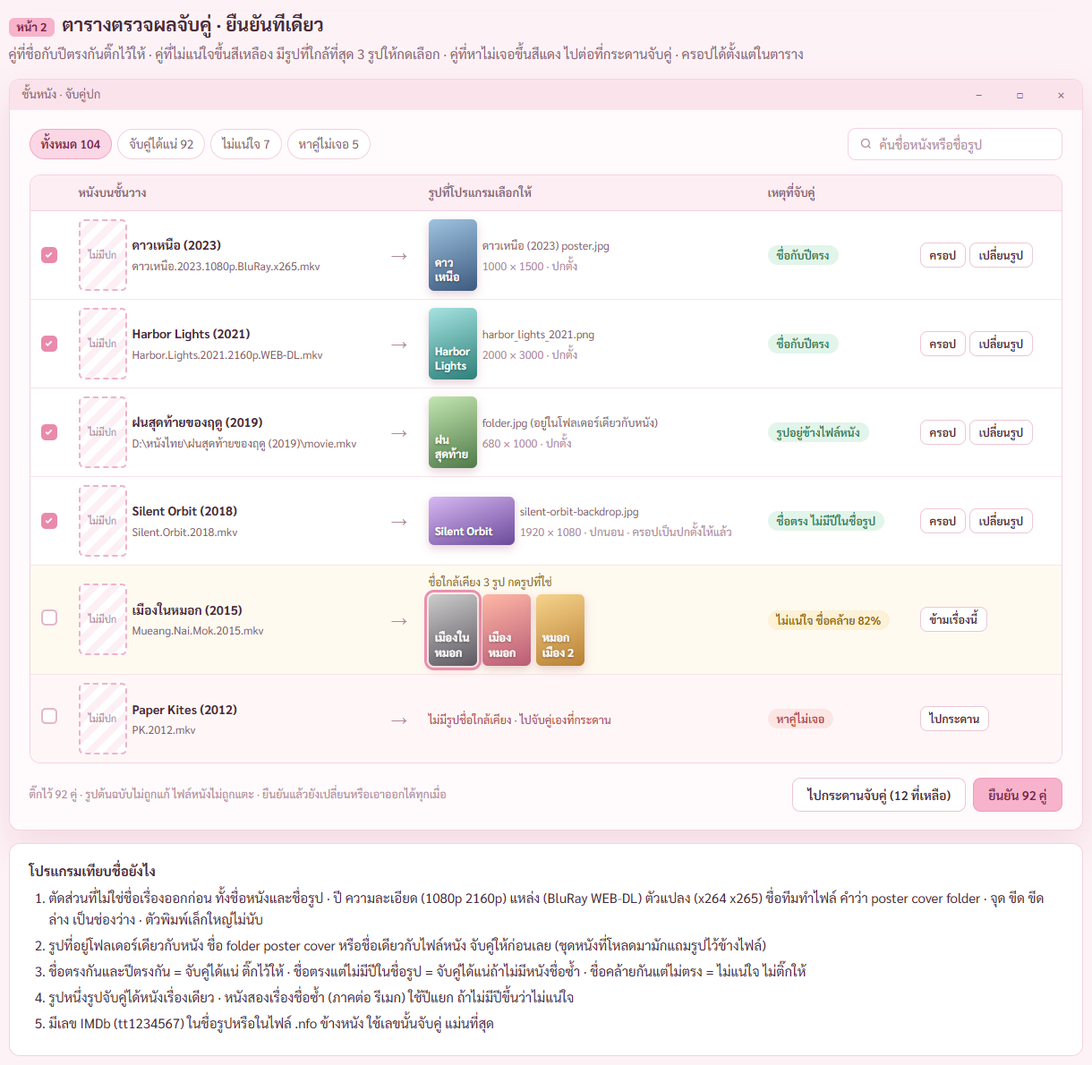
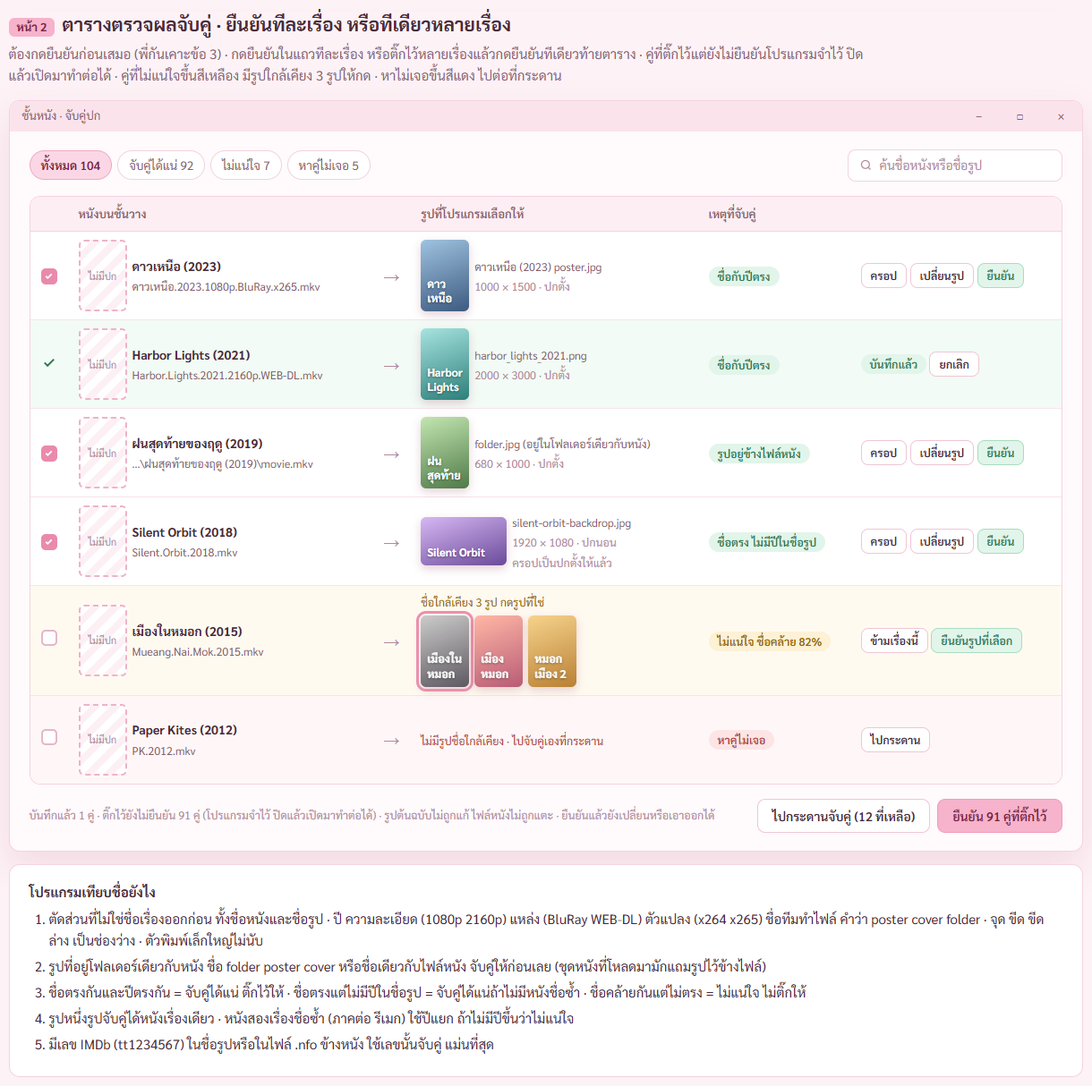
มอคอัปจับคู่รูปปก แก้ตามที่พี่กันเคาะครบ 5 ข้อ: ค่าตั้งต้นคัดลอกรูปที่ครอปแล้วไปไว้ข้างไฟล์หนังชื่อเหมือนหนัง -poster -landscape · ยืนยันทีละเรื่องหรือทีเดียว พร้อมหน้าต่างกันเผลอปิด · ชั้นวางกรองรวมกับจับคู่ สลับปกตั้งปกนอน
เป้าหมาย
--------
- พี่กันเคาะข้อ 1 "ข้อ 1 ค่าตั้งต้นคือ ระบบจะ copy ไฟล์ภาพและเปลี่ยนชื่อให้เหมือนกับชื่อหนังเลย แต่ตปุ่มตั้งค่าสามารถเอาออกได้ แค่จับคู่ ชื่อเดิม ที่เดิม แค่โปรแกรมจับมาแสดงเฉยๆ" แล้วถามว่าเก็บรูปในโปรแกรมคืออะไร · แคลร์อธิบาย แล้วถามว่าสำเนาวางข้างไฟล์หนังใช่ไหม
- พี่กันตอบครบ "เก็บในโปรแกรม เอา แต่ต้องไปเลือกในตั้งค่า" · "รูผที่ ครอบแล้วตอน copy มาตัวต้นฉบับยังอยู่ เป็นค่าพื้นฐาน" · "นามสกุลเป็นรูป ใช่ และใส่ด้วย แนวตั้งแนวนอน เพราะอย่างที่บอก 1 วิดีโอ เปลี่ยนได้หลายรูป" · "2 แยกหน้า … และสามารถกดกรองได้ว่าเรื่องไหนมาจาก merge หรือจับคู่" · "3 กดยืนวันก่อนเท่านั้น แต่เราอยากได้แบบ กดทีละเรื่อง หรือเราเลือกจับคู่ไว้จนครบ 50 เรื่องแล้วกดยืนยันทีเดียวได้ แค่ต้องห้ามด้วยถ้าเผลอปิดโปรแกรม" · "4 ไม่เอาปรับสี" · "5 ทำพร้อมกัน"
- รอบนี้ไม่แตะ โค้ดของโปรแกรม (ยังไม่ลงมือ) · ไม่ขยับรุ่น ไม่ push

ผลลัพธ์
-------
| เรื่อง | ก่อน | หลัง |
|---|---|---|
| ข้อที่รอเคาะ | 5 ข้อ | เคาะครบ จดโรดแมปพร้อมคำพี่กัน |
| หน้ามอคอัป | 7 หน้า | 8 หน้า (เพิ่มหน้าต่างกันเผลอปิด) แก้ 5 หน้าตามคำเคาะ |

ที่ทำ
-----

[1] มอคอัปแก้ตามคำเคาะ — docs/mockups/poster-link.html (+59 −34)
           หัวมอคอัปบอกว่าพี่กันเคาะครบแล้ว
           หน้า 2 ตาราง ปุ่มยืนยันในแถวทุกคู่ · แถว Harbor Lights เป็นแถวที่บันทึกแล้ว สีเขียว เครื่องหมายถูก ป้ายบันทึกแล้วกับปุ่มยกเลิก · แถวไม่แน่ใจมีปุ่มยืนยันรูปที่เลือก · ท้ายตาราง บันทึกแล้ว 1 คู่ ติ๊กไว้ยังไม่ยืนยัน 91 คู่ (โปรแกรมจำไว้) ปุ่มยืนยัน 91 คู่ที่ติ๊กไว้
[…]

diff --git a/docs/mockups/poster-link.html b/docs/mockups/poster-link.html
@@ -85,6 +85,7 @@ td{padding:9px 12px;border-bottom:1px solid #f8e3eb;vertical-align:middle}
 tbody tr:last-child td{border-bottom:0}
 td.acts{white-space:nowrap}
 tr.unsure td{background:#fffaf0}
+tr.saved td{background:#f2fbf5}
 tr.none td{background:#fff7f7}
 .mv b{display:block;font-size:14px}
 .fn{font-size:12.5px;color:var(--txt2);word-break:break-all}
@@ -164,6 +165,7 @@ tr.none td{background:#fff7f7}
   <h1>จับคู่รูปปกกับไฟล์หนัง โดยไม่รวมเข้าไฟล์</h1>
   <p class="lead">มอคอัป 8 พ.ย. 2569 · พี่กันสั่ง <i>"แม้โปสเตอร์และวิดีโอจะอยู่คนละที่ แต่โปรแกรมจะจับคู่กันได้ โดยไม่ต้อง merge · ภาพที่เอามาจับคู่ดัดแปลง ครอป บิด ได้หมดเหมือนที่จะรวมกับรูป · อยากได้วิธีกดที่ง่าย สมมุติมีหนัง 100 เรื่องกับรูป 100 รูป"</i></p>
   <p class="lead">ไฟล์หนังไม่ถูกแตะเลย ไม่ต้องรอครอบ ไม่ใช้ที่ว่างเพิ่ม ใช้ได้กับไฟล์ทุกชนิด รวมถึง MP4 AVI ที่ใส่ปกในไฟล์ยาก · วันไหนอยากรวมเข้าไฟล์จริง กดรวมจากรูปที่จับคู่ไว้ได้เลย</p>
+  <p class="lead"><b>พี่กันเคาะครบ 5 ข้อแล้ว 8 พ.ย. 2569</b> · มอคอัปแก้ตามคำเคาะแล้ว (หน้า 2 ตาราง · หน้ากันเผลอปิด · หน้า 5 ชั้นวาง · หน้าตั้งค่า · หน้าสรุป)</p>
 
   <!-- ===================== ข้อเสนอ 3 ทาง ===================== -->
   <section class="sec" id="ways">
@@ -172,7 +174,7 @@ tr.none td{background:#fff7f7}
     <div class="ways">
       <div class="way"><h4><span class="step">1</span>ลากรูปทั้งโฟลเดอร์มา โปรแกรมจับคู่ให้</h4>
         <div class="when">หนังหลายเรื่อง รูปหลายรูปพร้อมกัน</div>
-        <div class="small" style="font-size:13.5px;color:var(--txt2)">ลากโฟลเดอร์รูปมาวาง โปรแกรมเทียบชื่อรูปกับชื่อหนังบนชั้นวาง (ตัดปี ความละเอียด ชื่อทีมทำไฟล์ ออกก่อนเทียบ) แล้วขึ้นตารางให้ตรวจ · คู่ที่ชื่อกับปีตรงกันติ๊กไว้ให้ กดยืนยันทีเดียว</div></div>
+        <div class="small" style="font-size:13.5px;color:var(--txt2)">ลากโฟลเดอร์รูปมาวาง โปรแกรมเทียบชื่อรูปกับชื่อหนังบนชั้นวาง (ตัดปี ความละเอียด ชื่อทีมทำไฟล์ ออกก่อนเทียบ) แล้วขึ้นตารางให้ตรวจ · คู่ที่ชื่อกับปีตรงกันติ๊กไว้ให้ ยืนยันทีละเรื่องหรือทีเดียวหลายเรื่อง</div></div>
       <div class="way"><h4><span class="step">2</span>กระดานจับคู่ ลากรูปไปวางบนหนัง</h4>
         <div class="when">คู่ที่โปรแกรมไม่แน่ใจหรือหาไม่เจอ</div>
         <div class="small" style="font-size:13.5px;color:var(--txt2)">รูปที่เหลืออยู่ซ้าย หนังที่ยังไม่มีปกอยู่ขวา · ลากรูปไปวางบนหนัง หรือกดรูปแล้วกดหนัง สองคลิกจบ · ค้นชื่อหนังได้ จับคู่แล้วแถวหายไปจากกระดาน เหลือแต่ที่ยังไม่เสร็จ</div></div>
@@ -219,47 +221,47 @@ tr.none td{background:#fff7f7}
 
   <!-- ===================== หน้า 2 ตารางตรวจผล ===================== -->
   <section class="sec" id="s2">
-    <h2><span class="tag">หน้า 2</span>ตารางตรวจผลจับคู่ · ยืนยันทีเดียว</h2>
-    <p class="note">คู่ที่ชื่อกับปีตรงกันติ๊กไว้ให้ · คู่ที่ไม่แน่ใจขึ้นสีเหลือง มีรูปที่ใกล้ที่สุด 3 รูปให้กดเลือก · คู่ที่หาไม่เจอขึ้นสีแดง ไปต่อที่กระดานจับคู่ · ครอปได้ตั้งแต่ในตาราง</p>
+    <h2><span class="tag">หน้า 2</span>ตารางตรวจผลจับคู่ · ยืนยันทีละเรื่อง หรือทีเดียวหลายเรื่อง</h2>
+    <p class="note">ต้องกดยืนยันก่อนเสมอ (พี่กันเคาะข้อ 3) · กดยืนยันในแถวทีละเรื่อง หรือติ๊กไว้หลายเรื่องแล้วกดยืนยันทีเดียวท้ายตาราง · คู่ที่ติ๊กไว้แต่ยังไม่ยืนยันโปรแกรมจำไว้ ปิดแล้วเปิดมาทำต่อได้ · คู่ที่ไม่แน่ใจขึ้นสีเหลือง มีรูปใกล้เคียง 3 รูปให้กด · หาไม่เจอขึ้นสีแดง ไปต่อที่กระดาน</p>
     <div class="win">
       <div class="titlebar"><span>ชั้นหนัง · จับคู่ปก</span><span class="ctl"><span>–</span><span>□</span><span>×</span></span></div>
       <div class="wrapin">
         <div class="foot"><div class="tabs"><span class="on">ทั้งหมด 104</span><span>จับคู่ได้แน่ 92</span><span>ไม่แน่ใจ 7</span><span>หาคู่ไม่เจอ 5</span></div>
           <div class="search" style="width:240px"><svg width="15" height="15" viewBox="0 0 24 24" fill="none" stroke="currentColor" stroke-width="2"><circle cx="11" cy="11" r="7"/><path d="M20 20l-3.5-3.5"/></svg>ค้นชื่อหนังหรือชื่อรูป</div></div>
         <div class="tblwrap"><table>
-          <thead><tr><th style="width:36px"></th><th>หนังบนชั้นวาง</th><th style="width:30px"></th><th>รูปที่โปรแกรมเลือกให้</th><th style="width:170px">เหตุที่จับคู่</th><th style="width:170px"></th></tr></thead>
+          <thead><tr><th style="width:36px"></th><th>หนังบนชั้นวาง</th><th style="width:30px"></th><th>รูปที่โปรแกรมเลือกให้</th><th style="width:170px">เหตุที่จับคู่</th><th style="width:236px"></th></tr></thead>
           <tbody>
             <tr><td><span class="cbx on"><svg width="11" height="11" viewBox="0 0 24 24" fill="none" stroke="#fff" stroke-width="4"><path d="M5 12.5l4.5 4.5L19 7.5"/></svg></span></td>
               <td><div class="pick"><span class="pp tall none">ไม่มีปก</span><div class="mv"><b>ดาวเหนือ (2023)</b><span class="fn">ดาวเหนือ.2023.1080p.BluRay.x265.mkv</span></div></div></td>
               <td class="arrow">→</td>
               <td><div class="pick"><span class="pp tall g2"><span class="t">ดาวเหนือ</span></span><div><span class="fn">ดาวเหนือ (2023) poster.jpg</span><br><span class="small">1000 × 1500 · ปกตั้ง</span></div></div></td>
               <td><span class="pill p-ok">ชื่อกับปีตรง</span></td>
-              <td class="acts"><span class="btn btn-ghost btn-xs">ครอป</span> <span class="btn btn-ghost btn-xs">เปลี่ยนรูป</span></td></tr>
-            <tr><td><span class="cbx on"><svg width="11" height="11" viewBox="0 0 24 24" fill="none" stroke="#fff" stroke-width="4"><path d="M5 12.5l4.5 4.5L19 7.5"/></svg></span></td>
+              <td class="acts"><span class="btn btn-ghost btn-xs">ครอป</span> <span class="btn btn-ghost btn-xs">เปลี่ยนรูป</span> <span class="btn btn-ok btn-xs">ยืนยัน</span></td></tr>
+            <tr class="saved"><td><svg width="18" height="18" viewBox="0 0 24 24" fill="none" stroke="#2f7a52" stroke-width="2.6"><path d="M5 12.5l4.5 4.5L19 7.5"/></svg></td>
               <td><div class="pick"><span class="pp tall none">ไม่มีปก</span><div class="mv"><b>Harbor Lights (2021)</b><span class="fn">Harbor.Lights.2021.2160p.WEB-DL.mkv</span></div></div></td>
               <td class="arrow">→</td>
               <td><div class="pick"><span class="pp tall g6"><span class="t">Harbor Lights</span></span><div><span class="fn">harbor_lights_2021.png</span><br><span class="small">2000 × 3000 · ปกตั้ง</span></div></div></td>
               <td><span class="pill p-ok">ชื่อกับปีตรง</span></td>
-              <td class="acts"><span class="btn btn-ghost btn-xs">ครอป</span> <span class="btn btn-ghost btn-xs">เปลี่ยนรูป</span></td></tr>
+              <td class="acts"><span class="pill p-ok">บันทึกแล้ว</span> <span class="btn btn-ghost btn-xs">ยกเลิก</span></td></tr>
             <tr><td><span class="cbx on"><svg width="11" height="11" viewBox="0 0 24 24" fill="none" stroke="#fff" stroke-width="4"><path d="M5 12.5l4.5 4.5L19 7.5"/></svg></span></td>
-              <td><div class="pick"><span class="pp tall none">ไม่มีปก</span><div class="mv"><b>ฝนสุดท้ายของฤดู (2019)</b><span class="fn">D:\หนังไทย\ฝนสุดท้ายของฤดู (2019)\movie.mkv</span></div></div></td>
+              <td><div class="pick"><span class="pp tall none">ไม่มีปก</span><div class="mv"><b>ฝนสุดท้ายของฤดู (2019)</b><span class="fn">…\ฝนสุดท้ายของฤดู (2019)\movie.mkv</span></div></div></td>
               <td class="arrow">→</td>
               <td><div class="pick"><span class="pp tall g3"><span class="t">ฝนสุดท้าย</span></span><div><span class="fn">folder.jpg (อยู่ในโฟลเดอร์เดียวกับหนัง)</span><br><span class="small">680 × 1000 · ปกตั้ง</span></div></div></td>
               <td><span class="pill p-ok">รูปอยู่ข้างไฟล์หนัง</span></td>
-              <td class="acts"><span class="btn btn-ghost btn-xs">ครอป</span> <span class="btn btn-ghost btn-xs">เปลี่ยนรูป</span></td></tr>
+              <td class="acts"><span class="btn btn-ghost btn-xs">ครอป</span> <span class="btn btn-ghost btn-xs">เปลี่ยนรูป</span> <span class="btn btn-ok btn-xs">ยืนยัน</span></td></tr>
             <tr><td><span class="cbx on"><svg width="11" height="11" viewBox="0 0 24 24" fill="none" stroke="#fff" stroke-width="4"><path d="M5 12.5l4.5 4.5L19 7.5"/></svg></span></td>
               <td><div class="pick"><span class="pp tall none">ไม่มีปก</span><div class="mv"><b>Silent Orbit (2018)</b><span class="fn">Silent.Orbit.2018.mkv</span></div></div></td>
               <td class="arrow">→</td>
-              <td><div class="pick"><span class="pp wide g5"><span class="t">Silent Orbit</span></span><div><span class="fn">silent-orbit-backdrop.jpg</span><br><span class="small">1920 × 1080 · ปกนอน · ครอปเป็นปกตั้งให้แล้ว</span></div></div></td>
+              <td><div class="pick"><span class="pp wide g5"><span class="t">Silent Orbit</span></span><div><span class="fn">silent-orbit-backdrop.jpg</span><br><span class="small">1920 × 1080 · ปกนอน</span><br><span class="small">ครอปเป็นปกตั้งให้แล้ว</span></div></div></td>
               <td><span class="pill p-ok">ชื่อตรง ไม่มีปีในชื่อรูป</span></td>
-              <td class="acts"><span class="btn btn-ghost btn-xs">ครอป</span> <span class="btn btn-ghost btn-xs">เปลี่ยนรูป</span></td></tr>
+              <td class="acts"><span class="btn btn-ghost btn-xs">ครอป</span> <span class="btn btn-ghost btn-xs">เปลี่ยนรูป</span> <span class="btn btn-ok btn-xs">ยืนยัน</span></td></tr>
             <tr class="unsure"><td><span class="cbx off"></span></td>
               <td><div class="pick"><span class="pp tall none">ไม่มีปก</span><div class="mv"><b>เมืองในหมอก (2015)</b><span class="fn">Mueang.Nai.Mok.2015.mkv</span></div></div></td>
               <td class="arrow">→</td>
               <td><div class="small" style="color:var(--warn-ink)">ชื่อใกล้เคียง 3 รูป กดรูปที่ใช่</div>
                 <div class="sugg"><span class="pp tall g8 sel"><span class="t">เมืองในหมอก</span></span><span class="pp tall g1"><span class="t">เมืองหมอก</span></span><span class="pp tall g4"><span class="t">หมอกเมือง 2</span></span></div></td>
               <td><span class="pill p-warn">ไม่แน่ใจ ชื่อคล้าย 82%</span></td>
-              <td><span class="btn btn-ghost btn-xs">ข้ามเรื่องนี้</span></td></tr>
+              <td class="acts"><span class="btn btn-ghost btn-xs">ข้ามเรื่องนี้</span> <span class="btn btn-ok btn-xs">ยืนยันรูปที่เลือก</span></td></tr>
             <tr class="none"><td><span class="cbx off"></span></td>
               <td><div class="pick"><span class="pp tall none">ไม่มีปก</span><div class="mv"><b>Paper Kites (2012)</b><span class="fn">PK.2012.mkv</span></div></div></td>
               <td class="arrow">→</td>
@@ -268,8 +270,8 @@ tr.none td{background:#fff7f7}
               <td><span class="btn btn-ghost btn-xs">ไปกระดาน</span></td></tr>
           </tbody>
         </table></div>
-        <div class="foot"><span class="small">ติ๊กไว้ 92 คู่ · รูปต้นฉบับไม่ถูกแก้ ไฟล์หนังไม่ถูกแตะ · ยืนยันแล้วยังเปลี่ยนหรือเอาออกได้ทุกเมื่อ</span>
-          <span class="row"><span class="btn btn-ghost">ไปกระดานจับคู่ (12 ที่เหลือ)</span><span class="btn btn-main">ยืนยัน 92 คู่</span></span></div>
+        <div class="foot"><span class="small">บันทึกแล้ว 1 คู่ · ติ๊กไว้ยังไม่ยืนยัน 91 คู่ (โปรแกรมจำไว้ ปิดแล้วเปิดมาทำต่อได้) · รูปต้นฉบับไม่ถูกแก้ ไฟล์หนังไม่ถูกแตะ · ยืนยันแล้วยังเปลี่ยนหรือเอาออกได้</span>
+          <span class="row"><span class="btn btn-ghost">ไปกระดานจับคู่ (12 ที่เหลือ)</span><span class="btn btn-main">ยืนยัน 91 คู่ที่ติ๊กไว้</span></span></div>
       </div>
     </div>
     <div class="explain" style="margin-top:14px"><b>โปรแกรมเทียบชื่อยังไง</b>
@@ -322,10 +324,28 @@ tr.none td{background:#fff7f7}
     </div>
   </section>
 
+  <!-- ===================== กันเผลอปิดโปรแกรม ===================== -->
+  <section class="sec" id="s3b">
+    <h2><span class="tag">หน้าต่างถาม</span>เผลอกดปิดโปรแกรม ตอนยังมีคู่ที่ไม่ได้ยืนยัน</h2>
+    <p class="note">พี่กันเคาะข้อ 3 <i>"แค่ต้องห้ามด้วยถ้าเผลอปิดโปรแกรม"</i> · กดปิดหน้าต่างแล้วขึ้นหน้าต่างนี้ก่อน ปุ่มหลักคือยืนยันแล้วปิด · ต่อให้ปิดโดยไม่ยืนยัน คู่ที่ติ๊กไว้ก็ยังจำไว้ เปิดโปรแกรมมาครั้งหน้าขึ้นแถบให้ทำต่อ</p>
+    <div class="win">
+      <div class="titlebar"><span>ชั้นหนัง · จับคู่ปก</span><span class="ctl"><span>–</span><span>□</span><span>×</span></span></div>
+      <div style="background:rgba(110,55,80,.22);padding:40px;display:flex;justify-content:center">
+        <div style="background:#fff;border-radius:14px;box-shadow:0 18px 40px rgba(120,50,80,.25);padding:22px 24px;width:560px;display:flex;flex-direction:column;gap:10px">
+          <div style="font-size:17px;font-weight:700">ยังไม่ได้ยืนยัน 91 คู่</div>
+          <div style="font-size:14px;color:var(--txt2)">ติ๊กไว้ 91 คู่ในหน้าจับคู่ปกแต่ยังไม่ได้กดยืนยัน ปกยังไม่ขึ้นชั้นวาง</div>
+          <div class="stat info"><svg width="16" height="16" viewBox="0 0 24 24" fill="none" stroke="currentColor" stroke-width="2"><circle cx="12" cy="12" r="9"/><path d="M12 8v5M12 16h.01"/></svg>
+            <div>ปิดโดยไม่ยืนยันก็ไม่หาย โปรแกรมจำคู่ที่ติ๊กไว้ เปิดมาครั้งหน้ามีแถบ<br><b style="display:inline;white-space:nowrap">ทำต่อ 91 คู่ที่ค้างไว้</b></div></div>
+          <div class="row" style="justify-content:flex-end;margin-top:6px"><span class="btn btn-ghost">ปิดโดยไม่ยืนยัน</span><span class="btn btn-ghost">กลับไปดูก่อน</span><span class="btn btn-main">ยืนยัน 91 คู่แล้วปิด</span></div>
+        </div>
+      </div>
+    </div>
+  </section>
+
   <!-- ===================== หน้า 4 ครอป ===================== -->
   <section class="sec" id="s4">
     <h2><span class="tag">หน้า 4</span>ครอป หมุน ปรับเอียง ได้ทุกอย่างเหมือนตอนรวม</h2>
-    <p class="note">ใช้หน้าครอปเดียวกับหน้าใส่โปสเตอร์ · เพิ่มหมุน 90° พลิก และปรับเอียงทีละองศาสำหรับรูปถ่ายที่เอียง · รูปต้นฉบับไม่ถูกแก้ โปรแกรมจำค่าที่ปรับไว้ เปิดมาแก้ใหม่ได้ทุกเมื่อ · รูปแนวนอนรูปเดียวได้ทั้งปกนอนกับปกตั้ง</p>
+    <p class="note">ใช้หน้าครอปเดียวกับหน้าใส่โปสเตอร์ · เพิ่มหมุน 90° พลิก และปรับเอียงทีละองศาสำหรับรูปถ่ายที่เอียง · ไม่มีปรับสี (พี่กันเคาะข้อ 4) · รูปต้นฉบับไม่ถูกแก้ โปรแกรมจำค่าที่ปรับไว้ เปิดมาแก้ใหม่ได้ทุกเมื่อ · รูปแนวนอนรูปเดียวได้ทั้งปกนอนกับปกตั้ง</p>
     <div class="win">
       <div class="titlebar"><span>ครอปรูปปก · Night Bus (2020)</span><span class="ctl"><span>–</span><span>□</span><span>×</span></span></div>
       <div class="wrapin">
@@ -347,13 +367,15 @@ tr.none td{background:#fff7f7}
 
   <!-- ===================== หน้า 5 ชั้นวาง ===================== -->
   <section class="sec" id="s5">
-    <h2><span class="tag">หน้า 5</span>บนชั้นวาง · ปกที่จับคู่ไว้มีป้ายโซ่</h2>
-    <p class="note">ชั้นวางแสดงปกที่จับคู่เหมือนปกในไฟล์ มีป้ายโซ่เล็ก ๆ บอกว่าปกไม่ได้อยู่ในไฟล์ · แผงขวามีปุ่มครอปใหม่ เปลี่ยนรูป เอาออก และรวมเข้าไฟล์ (เปิดหน้าใส่โปสเตอร์พร้อมรูปที่ครอปไว้แล้ว)</p>
+    <h2><span class="tag">หน้า 5</span>บนชั้นวาง · กรองได้ว่าปกมาจากการรวมหรือการจับคู่ · สลับปกตั้งกับปกนอนทั้งชั้น</h2>
+    <p class="note">พี่กันเคาะข้อ 2 ให้กรองได้ว่าเรื่องไหนมาจากการรวม (ปกในไฟล์) หรือจับคู่ · ข้อ 5 ปุ่มสลับดูปกตั้งกับปกนอนทั้งชั้นทำพร้อมกัน เรื่องที่มีแบบเดียวใช้แบบที่มี · ปกที่จับคู่มีป้ายโซ่ · แผงขวามีครอปใหม่ เปลี่ยนรูป เอาออก และรวมเข้าไฟล์</p>
     <div class="win">
       <div class="titlebar"><span>ชั้นหนัง</span><span class="ctl"><span>–</span><span>□</span><span>×</span></span></div>
       <div class="shelfbox">
         <div class="shelfwrap">
-          <b style="font-size:18px">ชั้นวาง</b> <span class="small">128 เรื่อง · ปกในไฟล์ 28 · ปกจับคู่ 92 · ยังไม่มีปก 8</span>
+          <div class="foot"><b style="font-size:18px">ชั้นวาง</b>
+            <span class="row"><span class="small">ดูปก</span><span class="seg"><span class="on">ปกตั้ง</span><span>ปกนอน</span></span></span></div>
+          <div class="tabs" style="margin-top:8px"><span class="on">ทั้งหมด 128</span><span>ปกในไฟล์ (รวมแล้ว) 28</span><span>ปกจับคู่ 92</span><span>ยังไม่มีปก 8</span></div>
           <div class="shelf">
             <div class="book"><div class="cover g2"><span class="t">ดาวเหนือ</span><span class="linkb"><svg width="13" height="13" viewBox="0 0 24 24" fill="none" stroke="#c2547f" stroke-width="2.4"><path d="M10 13a5 5 0 007 0l3-3a5 5 0 00-7-7l-1 1"/><path d="M14 11a5 5 0 00-7 0l-3 3a5 5 0 007 7l1-1"/></svg></span></div><div class="bname">ดาวเหนือ (2023)</div></div>
             <div class="book sel"><div class="cover g6"><span class="t">Harbor Lights</span><span class="linkb"><svg width="13" height="13" viewBox="0 0 24 24" fill="none" stroke="#c2547f" stroke-width="2.4"><path d="M10 13a5 5 0 007 0l3-3a5 5 0 00-7-7l-1 1"/><path d="M14 11a5 5 0 00-7 0l-3 3a5 5 0 007 7l1-1"/></svg></span></div><div class="bname">Harbor Lights (2021)</div></div>
@@ -375,28 +397,33 @@ tr.none td{background:#fff7f7}
 
   <!-- ===================== เก็บรูปไว้ที่ไหน ===================== -->
   <section class="sec" id="s6">
-    <h2><span class="tag">หน้าตั้งค่า</span>เก็บรูปที่จับคู่ไว้ที่ไหน</h2>
-    <p class="note">รูปต้นฉบับอยู่ที่ไหนก็ได้ แต่ถ้าพี่กันลบหรือย้ายรูปทีหลัง ปกจะหาย · แคลร์เสนอให้โปรแกรมเก็บสำเนารูปที่ครอปแล้วไว้เอง ส่วนวางรูปข้างไฟล์หนังเป็นตัวเลือกเสริมสำหรับโปรแกรมอื่น</p>
-    <div class="modes">
-      <div class="mode on"><h4><span class="radio" style="width:18px;height:18px;border-radius:50%;border:2px solid var(--accent);display:inline-flex;align-items:center;justify-content:center"><span style="width:8px;height:8px;border-radius:50%;background:var(--accent)"></span></span>เก็บสำเนาไว้ในโปรแกรม <span class="rec">แคลร์แนะนำ</span></h4>
-        <div class="small" style="font-size:13.5px;color:var(--txt2)">เก็บรูปที่ครอปแล้วกับรูปต้นฉบับหนึ่งชุดไว้ในโฟลเดอร์ข้อมูลของโปรแกรม · ลบหรือย้ายรูปต้นฉบับแล้วปกไม่หาย ครอปใหม่ได้ · ย้ายหรือเปลี่ยนชื่อไฟล์หนังผ่านชั้นหนังปกตามไป · ย้ายด้วย Explorer ในไดรฟ์เดียวกัน โปรแกรมยังตามเจอจากเลขประจำไฟล์ของ Windows แบบเดียวกับการจับคู่เสียงซับ · ย้ายข้ามไดรฟ์ต้องจับคู่ใหม่ · หนัง 100 เรื่องใช้ที่ราว 100–200 MB</div></div>
-      <div class="mode"><h4><span class="cbx off"></span>วางรูปข้างไฟล์หนังด้วย</h4>
-        <div class="small" style="font-size:13.5px;color:var(--txt2)">เขียนรูปชื่อ <b>ชื่อหนัง-poster.jpg</b> กับ <b>ชื่อหนัง-fanart.jpg</b> ไว้ข้างไฟล์หนัง แบบที่ Kodi Jellyfin Plex อ่าน · โปรแกรมพวกนั้นเห็นปกด้วย · ไฟล์หนังยังไม่ถูกแตะ แต่โฟลเดอร์หนังมีไฟล์รูปเพิ่ม · เปลี่ยนชื่อไฟล์หนังในชั้นหนังแล้วรูปเปลี่ยนชื่อตาม</div></div>
+    <h2><span class="tag">หน้าตั้งค่า</span>เก็บรูปที่จับคู่ไว้ที่ไหน · 3 แบบ</h2>
+    <p class="note">พี่กันเคาะข้อ 1 · ค่าตั้งต้นคัดลอกรูปที่ครอปแล้วไปไว้ข้างไฟล์หนัง ชื่อเหมือนหนังต่อด้วยแนวตั้งหรือแนวนอน รูปต้นฉบับอยู่ที่เดิม · เก็บในโปรแกรมกับจับคู่อย่างเดียว ต้องมาเลือกเองที่หน้าตั้งค่า</p>
+    <div class="modes" style="grid-template-columns:1fr 1fr 1fr">
+      <div class="mode on"><h4><span style="width:18px;height:18px;border-radius:50%;border:2px solid var(--accent);display:inline-flex;align-items:center;justify-content:center;flex:none"><span style="width:8px;height:8px;border-radius:50%;background:var(--accent)"></span></span>คัดลอกไปไว้ข้างไฟล์หนัง <span class="rec">ค่าตั้งต้น</span></h4>
+        <div class="small" style="font-size:13.5px;color:var(--txt2)">คัดลอกรูปที่ครอปแล้วไปไว้โฟลเดอร์เดียวกับหนัง ชื่อเหมือนไฟล์หนัง · รูปต้นฉบับอยู่ที่เดิม ไม่ถูกแก้ กลับมาครอปใหม่ได้
+          <div style="background:#fff;border:1px solid var(--line);border-radius:8px;padding:8px 10px;margin:8px 0;font-family:Consolas,monospace;font-size:12.5px;line-height:1.7;color:var(--txt)">D:\หนัง\ดาวเหนือ (2023).mkv<br>D:\หนัง\ดาวเหนือ (2023)-poster.jpg <span style="color:var(--txt3)">แนวตั้ง</span><br>D:\หนัง\ดาวเหนือ (2023)-landscape.jpg <span style="color:var(--txt3)">แนวนอน</span></div>
+          ชื่อลงท้ายแบบที่ Kodi อ่านได้ (แคลร์ตั้ง) · เปลี่ยนรูปทีหลัง ไฟล์นี้เปลี่ยนตาม · เปลี่ยนชื่อหนังในชั้นหนัง รูปเปลี่ยนชื่อตาม · มีไฟล์ชื่อนี้อยู่แล้วที่โปรแกรมไม่ได้ทำ ไม่เขียนทับ ถามก่อน</div></div>
+      <div class="mode"><h4><span style="width:18px;height:18px;border-radius:50%;border:2px solid #e5b7c8;background:#fff;display:inline-flex;flex:none"></span>เก็บสำเนาไว้ในโปรแกรม</h4>
+        <div class="small" style="font-size:13.5px;color:var(--txt2)">คัดลอกรูปที่ครอปแล้วไปไว้โฟลเดอร์ข้อมูลของโปรแกรม (AppData\Local\ชั้นหนัง) ไม่มีไฟล์เพิ่มในโฟลเดอร์หนัง · ลบหรือย้ายรูปต้นฉบับแล้วปกไม่หาย · มีแต่ชั้นหนังที่เห็น โปรแกรมอื่นไม่เห็น</div></div>
+      <div class="mode"><h4><span style="width:18px;height:18px;border-radius:50%;border:2px solid #e5b7c8;background:#fff;display:inline-flex;flex:none"></span>จับคู่อย่างเดียว</h4>
+        <div class="small" style="font-size:13.5px;color:var(--txt2)">ไม่คัดลอก รูปอยู่ชื่อเดิมที่เดิม โปรแกรมจำแค่ที่อยู่รูปแล้วดึงมาแสดง · ไม่ใช้ที่เพิ่มเลย · ย้ายหรือลบรูปต้นฉบับ ชั้นวางขึ้นว่าหารูปไม่เจอ ต้องจับคู่ใหม่</div></div>
     </div>
+    <div class="small" style="margin-top:10px">ทุกแบบ ไฟล์หนังไม่ถูกแตะ · ย้ายหรือเปลี่ยนชื่อไฟล์หนังผ่านชั้นหนัง ปกตามไป · ย้ายด้วย Explorer ในไดรฟ์เดียวกัน โปรแกรมยังตามเจอจากเลขประจำไฟล์ของ Windows (แบบเดียวกับการจับคู่เสียงซับ) ย้ายข้ามไดรฟ์ต้องจับคู่ใหม่ · เปลี่ยนแบบทีหลัง มีผลกับเรื่องที่จับคู่ใหม่ เรื่องเดิมกดย้ายให้ทีเดียวได้</div>
   </section>
 
-  <!-- ===================== ต้องให้พี่กันเคาะ ===================== -->
+  <!-- ===================== พี่กันเคาะแล้ว ===================== -->
   <section class="sec" id="s7">
-    <h2><span class="tag">รอพี่กันเคาะ</span>ข้อที่ต้องตัดสินก่อนลงมือ</h2>
+    <h2><span class="tag">พี่กันเคาะแล้ว</span>สรุปคำเคาะ 8 พ.ย. 2569</h2>
     <div class="explain">
       <ol class="ask">
-        <li><b>เก็บรูปไว้ที่ไหน</b> · เก็บสำเนาไว้ในโปรแกรมอย่างเดียว หรือมีตัวเลือกวางรูปข้างไฟล์หนังด้วย <span class="rec">แนะนำ มีทั้งสอง วางข้างไฟล์ปิดไว้ก่อน</span></li>
-        <li><b>หน้าใหม่ในเมนูซ้าย หรืออยู่ในหน้าใส่โปสเตอร์</b> · หน้าจับคู่ปกแยก ทำงานกับหลายเรื่องพร้อมกัน ส่วนหน้าใส่โปสเตอร์เดิมทำทีละเรื่องแล้วรวมเข้าไฟล์ <span class="rec">แนะนำ หน้าแยก</span></li>
-        <li><b>คู่ที่จับคู่ได้แน่ ให้บันทึกเลยไหม</b> · หรือต้องกดยืนยันในตารางก่อนเสมอ <span class="rec">แนะนำ กดยืนยันก่อนเสมอ เห็นทุกคู่ก่อนบันทึก</span></li>
-        <li><b>ปรับรูปได้แค่ไหน</b> · ครอป หมุน 90° พลิก ปรับเอียง ตามมอคอัป หรืออยากได้ปรับสี ความสว่าง ด้วย <span class="rec">แนะนำ ตามมอคอัปก่อน ปรับสีค่อยเพิ่ม</span></li>
-        <li><b>ชั้นวางสลับดูปกตั้งกับปกนอนทั้งชั้น</b> · อยู่ในโรดแมปเดิมของเรื่องนี้ ทำพร้อมกันไหม <span class="rec">แนะนำ ทำพร้อมกัน ข้อมูลปกนอนมีอยู่แล้ว</span></li>
+        <li><b>เก็บรูปไว้ที่ไหน</b> · ค่าตั้งต้นคัดลอกรูปที่ครอปแล้วไปไว้ข้างไฟล์หนัง ชื่อเหมือนหนังต่อด้วยแนวตั้งหรือแนวนอน รูปต้นฉบับอยู่ที่เดิม · เก็บในโปรแกรมกับจับคู่อย่างเดียว เลือกได้ที่หน้าตั้งค่า</li>
+        <li><b>หน้าจับคู่ปกแยกในเมนูซ้าย</b> · หน้าใส่โปสเตอร์คือหน้ารวมกับเสียงซับ · ชั้นวางกรองได้ว่าเรื่องไหนปกมาจากการรวม เรื่องไหนจับคู่</li>
+        <li><b>ต้องกดยืนยันก่อนเสมอ</b> · ยืนยันทีละเรื่อง หรือติ๊กไว้หลายเรื่องแล้วยืนยันทีเดียว · กดปิดโปรแกรมตอนยังไม่ยืนยัน ขึ้นหน้าต่างถาม และคู่ที่ติ๊กไว้จำไว้</li>
+        <li><b>ไม่มีปรับสี</b> · ครอป หมุน 90° พลิก ปรับเอียง</li>
+        <li><b>ปุ่มสลับดูปกตั้งกับปกนอนทั้งชั้น ทำพร้อมกัน</b></li>
       </ol>
-      <div class="small" style="margin-top:8px">ข้อจำกัดที่บอกไว้ก่อน · ไอคอนไฟล์ใน Windows ไม่เปลี่ยน เพราะ Icaros อ่านปกจากในไฟล์ · โปรแกรมเล่นหนังไม่เห็นปกที่จับคู่ · อยากให้เห็นทุกที่ ใช้ปุ่มรวมเข้าไฟล์</div>
+      <div class="small" style="margin-top:8px">แคลร์ตั้งเอง ชื่อลงท้าย -poster กับ -landscape แบบที่ Kodi อ่านได้ · ข้อจำกัด ไอคอนไฟล์ใน Windows ไม่เปลี่ยน (Icaros อ่านปกจากในไฟล์) โปรแกรมเล่นหนังไม่เห็นปกที่จับคู่ อยากให้เห็นทุกที่ใช้ปุ่มรวมเข้าไฟล์</div>
     </div>
   </section>
 </div>

diff --git a/docs/REPORT-2026-11-08-มอคอัปจับคู่ปก.md b/docs/REPORT-2026-11-08-มอคอัปจับคู่ปก.md
@@ -44,21 +44,38 @@
 
 ## 7. เก็บรูปไว้ที่ไหน
 
-![เก็บรูปที่ไหน](report-2026-11-08/มอคอัปจับคู่ปก/6-เก็บรูปที่ไหน.png)
+รอบแรกแคลร์เสนอเก็บสำเนารูปไว้ในโปรแกรมเป็นหลัก · พี่กันเคาะให้ค่าตั้งต้นเป็นคัดลอกไปไว้ข้างไฟล์หนัง ส่วนเก็บในโปรแกรมต้องเลือกเอง (ภาพหน้าตั้งค่าใหม่อยู่ข้อ 8)
 
-แคลร์เสนอเก็บสำเนารูปไว้ในโปรแกรม ลบหรือย้ายรูปต้นฉบับแล้วปกไม่หาย · ตัวเลือกเสริมวางรูปข้างไฟล์หนังแบบที่ Kodi Jellyfin Plex อ่าน
+## 8. พี่กันเคาะครบ 5 ข้อ (8 พ.ย. 2569) · มอคอัปแก้ตามแล้ว
 
-## 8. รอพี่กันเคาะ
+![คำเคาะ](report-2026-11-08/มอคอัปจับคู่ปก/7-คำเคาะ.png)
 
-![รอพี่กันเคาะ](report-2026-11-08/มอคอัปจับคู่ปก/7-รอพี่กันเคาะ.png)
-
-1. เก็บรูปไว้ในโปรแกรมอย่างเดียว หรือมีตัวเลือกวางรูปข้างไฟล์หนังด้วย · แคลร์แนะนำ มีทั้งสอง วางข้างไฟล์ปิดไว้ก่อน
-2. หน้าจับคู่ปกแยกในเมนูซ้าย หรืออยู่ในหน้าใส่โปสเตอร์ · แคลร์แนะนำ หน้าแยก
-3. คู่ที่จับคู่ได้แน่ บันทึกเลยหรือต้องกดยืนยันก่อน · แคลร์แนะนำ กดยืนยันก่อนเสมอ
-4. ปรับรูปได้แค่ครอป หมุน พลิก ปรับเอียง หรืออยากได้ปรับสีด้วย · แคลร์แนะนำ ตามมอคอัปก่อน
-5. ชั้นวางสลับดูปกตั้งกับปกนอนทั้งชั้น (อยู่ในโรดแมปเดิม) ทำพร้อมกันไหม · แคลร์แนะนำ ทำพร้อมกัน
+1. *"ข้อ 1 ค่าตั้งต้นคือ ระบบจะ copy ไฟล์ภาพและเปลี่ยนชื่อให้เหมือนกับชื่อหนังเลย แต่ตปุ่มตั้งค่าสามารถเอาออกได้ แค่จับคู่ ชื่อเดิม ที่เดิม แค่โปรแกรมจับมาแสดงเฉยๆ"* · *"เก็บในโปรแกรม เอา แต่ต้องไปเลือกในตั้งค่า"* · *"รูผที่ ครอบแล้วตอน copy มาตัวต้นฉบับยังอยู่ เป็นค่าพื้นฐาน"* · *"นามสกุลเป็นรูป ใช่ และใส่ด้วย แนวตั้งแนวนอน"*
+   หน้าตั้งค่ามี 3 แบบ คัดลอกไปไว้ข้างไฟล์หนัง (ค่าตั้งต้น) · เก็บสำเนาไว้ในโปรแกรม · จับคู่อย่างเดียว · ชื่อลงท้าย -poster กับ -landscape แคลร์ตั้งเอง แบบที่ Kodi อ่านได้
+2. *"แยกหน้า … หนังที่รวม หรือจับคู่ ตะไปแสดงที่ชั้นหนัง และสามารถกดกรองได้ว่าเรื่องไหนมาจาก merge หรือจับคู่"* · ชั้นวางมีตัวกรอง ปกในไฟล์ (รวมแล้ว) · ปกจับคู่ · ยังไม่มีปก
+3. *"กดยืนวันก่อนเท่านั้น แต่เราอยากได้แบบ กดทีละเรื่อง หรือเราเลือกจับคู่ไว้จนครบ 50 เรื่องแล้วกดยืนยันทีเดียวได้ แค่ต้องห้ามด้วยถ้าเผลอปิดโปรแกรม"* · ปุ่มยืนยันในแถวกับปุ่มยืนยันที่ติ๊กไว้ท้ายตาราง · หน้าต่างถามก่อนปิด คู่ที่ติ๊กไว้จำไว้
+4. *"ไม่เอาปรับสี"*
+5. *"ทำพร้อมกัน"* · ปุ่มสลับดูปกตั้งกับปกนอนทั้งชั้น
 
 ข้อจำกัด · ไอคอนไฟล์ใน Windows ไม่เปลี่ยน (Icaros อ่านปกจากในไฟล์) · โปรแกรมเล่นหนังไม่เห็นปกที่จับคู่ · อยากเห็นทุกที่ใช้ปุ่มรวมเข้าไฟล์
+
+### หน้าที่แก้ตามคำเคาะ
+
+![ตารางตรวจผล](report-2026-11-08/มอคอัปจับคู่ปก/2-ตารางตรวจผล.png)
+
+ตารางมีปุ่มยืนยันในแถว แถวที่บันทึกแล้วเป็นสีเขียวมีปุ่มยกเลิก · ท้ายตารางยืนยันที่ติ๊กไว้ทีเดียว 91 คู่
+
+![กันเผลอปิด](report-2026-11-08/มอคอัปจับคู่ปก/3b-กันเผลอปิด.png)
+
+กดปิดโปรแกรมตอนยังมีคู่ที่ไม่ได้ยืนยัน ขึ้นหน้าต่างนี้ ปุ่มหลักคือยืนยันแล้วปิด · ปิดโดยไม่ยืนยันก็ไม่หาย เปิดมาครั้งหน้ามีแถบทำต่อ
+
+![ชั้นวาง](report-2026-11-08/มอคอัปจับคู่ปก/5-ชั้นวาง.png)
+
+ชั้นวางมีตัวกรองว่าปกมาจากการรวมหรือจับคู่ และปุ่มสลับดูปกตั้งกับปกนอน
+
+![หน้าตั้งค่า](report-2026-11-08/มอคอัปจับคู่ปก/6-เก็บรูปที่ไหน.png)
+
+หน้าตั้งค่า 3 แบบ ค่าตั้งต้นคัดลอกไปไว้ข้างไฟล์หนัง พร้อมตัวอย่างชื่อไฟล์
 
 ## 9. ตรวจภาพแล้วแก้ก่อนส่ง
 
@@ -67,3 +84,4 @@
 - หน้า 3 รูปที่กำลังลากบังชื่อการ์ดอื่น · ย้ายไปไว้ระหว่างทางไปหาหนังที่จะวาง
 - หน้าตั้งค่า เดิมเขียนว่าโปรแกรมจำไฟล์จากลายนิ้วมือไฟล์ ไม่ตรงของจริง · แก้เป็นตามไฟล์จากเลขประจำไฟล์ของ Windows ย้ายในไดรฟ์เดียวกันยังตามเจอ ย้ายข้ามไดรฟ์ต้องจับคู่ใหม่
 - ภาพรอบแรกออกมาว่างเปล่า เพราะตัวถ่ายคิดตำแหน่งจากจอ ใช้ได้กับหน้าโปรแกรมที่ไม่เลื่อนทั้งหน้า แต่หน้ามอคอัปเลื่อนทั้งหน้า · สคริปต์ถ่ายของรอบนี้บวกระยะที่เลื่อนเอง ไม่แตะตัวต่อ CDP ที่ตัวตรวจอื่นใช้
+- รอบแก้ตามคำเคาะ · แถวที่บันทึกแล้วยังมีช่องติ๊กชมพู (สคริปต์แก้ของแคลร์จับข้อความไม่เจอ) เปลี่ยนเป็นเครื่องหมายถูกสีเขียว · ที่อยู่ไฟล์ยาวกับข้อความครอปเป็นปกตั้งตัดกลางคำ ย่อที่อยู่และแยกบรรทัด · หน้าต่างกันเผลอปิด คำว่าทำต่อ 91 คู่ที่ค้างไว้ขาดสองบรรทัด ให้อยู่บรรทัดเดียว

diff --git a/docs/ROADMAP.md b/docs/ROADMAP.md
@@ -106,7 +106,17 @@
   - ใส่ได้สองทาง เลือกรูปมาสองรูป หรือรูปแนวนอนรูปเดียวแล้วครอปส่วนหนึ่งเป็นปกตั้ง (ใช้หน้าครอปที่มีอยู่)
   - แคลร์ร่าง ชั้นวางมีปุ่มสลับดูปกตั้งหรือปกแนวนอนทั้งชั้น · เรื่องที่มีแค่แบบเดียวใช้แบบที่มี
 - พี่กันสั่ง 8 พ.ย. 2569 *"เธอไปร่างมอคอัปมา … เเม้โปสเต้อ เเละวิดีโอจะอยู่คนละที่ เเต่โปรแกรมจะจับคู่กันได้ โดยไม่ต้อง merge เเละภาพที่เอามาจับคู่ก้สามารุดัดแปลง ครอบ บิด อะไรได้หมดเหมือนที่จะรวมกับรูป เเละเราอยากได้วิธีกดที่ง่าย เพราะสมมุติเรามีหนัง 100 เรื่อง กับรูป 100 รูป"*
-  - มอคอัป [mockups/poster-link.html](mockups/poster-link.html) · รายงาน [REPORT-2026-11-08-มอคอัปจับคู่ปก.md](REPORT-2026-11-08-มอคอัปจับคู่ปก.md) · **รอพี่กันเคาะ 5 ข้อท้ายมอคอัป** ก่อนลงมือ
+  - มอคอัป [mockups/poster-link.html](mockups/poster-link.html) · รายงาน [REPORT-2026-11-08-มอคอัปจับคู่ปก.md](REPORT-2026-11-08-มอคอัปจับคู่ปก.md) · พี่กันเคาะครบ 5 ข้อแล้ว (ข้างล่าง) · ยังไม่ลงมือ
+  - **ข้อ 1 พี่กันเคาะ 8 พ.ย. 2569** *"ข้อ 1 ค่าตั้งต้นคือ ระบบจะ copy ไฟล์ภาพและเปลี่ยนชื่อให้เหมือนกับชื่อหนังเลย แต่ตปุ่มตั้งค่าสามารถเอาออกได้ แค่จับคู่ ชื่อเดิม ที่เดิม แค่โปรแกรมจับมาแสดงเฉยๆ"*
+    - ค่าตั้งต้น คัดลอกรูปแล้วตั้งชื่อเหมือนชื่อหนัง · หน้าตั้งค่าปิดได้ เหลือจับคู่อย่างเดียว รูปอยู่ชื่อเดิมที่เดิม โปรแกรมดึงมาแสดง
+  - **พี่กันเคาะครบ 5 ข้อ 8 พ.ย. 2569** (ต่อจากข้อ 1 ข้างบน)
+    - ข้อ 1 ต่อ *"เก็บในโปรแกรม เอา แต่ต้องไปเลือกในตั้งค่า"* · *"รูผที่ ครอบแล้วตอน copy มาตัวต้นฉบับยังอยู่ เป็นค่าพื้นฐาน"* · *"นามสกุลเป็นรูป ใช่ และใส่ด้วย แนวตั้งแนวนอน เพราะอย่างที่บอก 1 วิดีโอ เปลี่ยนได้หลายรูป"*
+      - หน้าตั้งค่ามี 3 แบบ · ① คัดลอกรูปที่ครอปแล้วไปไว้ข้างไฟล์หนัง ชื่อเหมือนหนังต่อด้วยแนวตั้งหรือแนวนอน รูปต้นฉบับอยู่ที่เดิม (ค่าตั้งต้น) · ② เก็บสำเนาไว้ในโปรแกรม (ต้องเลือกเอง) · ③ จับคู่อย่างเดียว รูปชื่อเดิมที่เดิม
+      - แคลร์ตั้ง ชื่อลงท้าย -poster (แนวตั้ง) กับ -landscape (แนวนอน) แบบที่ Kodi อ่านได้ เช่น `ดาวเหนือ (2023)-poster.jpg` · ไฟล์ชื่อนี้มีอยู่แล้วและไม่ใช่ของโปรแกรม ไม่เขียนทับ
+    - ข้อ 2 *"แยกหน้า เพราะถ้าใส่โปสเต้อ มันคือหน้ารวมซับเสียงแล้ว และหนังที่รวม หรือจับคู่ ตะไปแสดงที่ชั้นหนัง และสามารถกดกรองได้ว่าเรื่องไหนมาจาก merge หรือจับคู่"* · หน้าจับคู่ปกแยกในเมนูซ้าย · ชั้นวางมีตัวกรอง ปกในไฟล์ (รวมแล้ว) · ปกจับคู่ · ยังไม่มีปก
+    - ข้อ 3 *"กดยืนวันก่อนเท่านั้น แต่เราอยากได้แบบ กดทีละเรื่อง หรือเราเลือกจับคู่ไว้จนครบ 50 เรื่องแล้วกดยืนยันทีเดียวได้ แค่ต้องห้ามด้วยถ้าเผลอปิดโปรแกรม"* · ยืนยันทีละเรื่องในแถว หรือติ๊กไว้หลายเรื่องแล้วยืนยันทีเดียว · ปิดโปรแกรมตอนมีคู่ที่ยังไม่ยืนยัน ขึ้นหน้าต่างถามก่อน และคู่ที่เลือกไว้จำไว้ เปิดมาต่อได้
+    - ข้อ 4 *"ไม่เอาปรับสี"* · ปรับรูปได้ ครอป หมุน 90° พลิก ปรับเอียง
+    - ข้อ 5 *"ทำพร้อมกัน"* · ปุ่มสลับดูปกตั้งกับปกนอนทั้งชั้น ทำพร้อมระบบนี้
 
 ### แปลงวิดีโอ (encode) แบบเดียวกับระบบแปลงเสียง
 - พี่กันสั่ง 8 พ.ย. 2569 *"ใส่ road map ระบบ encode วิดีโอด้วยนะ ให้มัน้หมือนเสียง เเต่ค่อยทำ"* · ยังไม่ทำ
